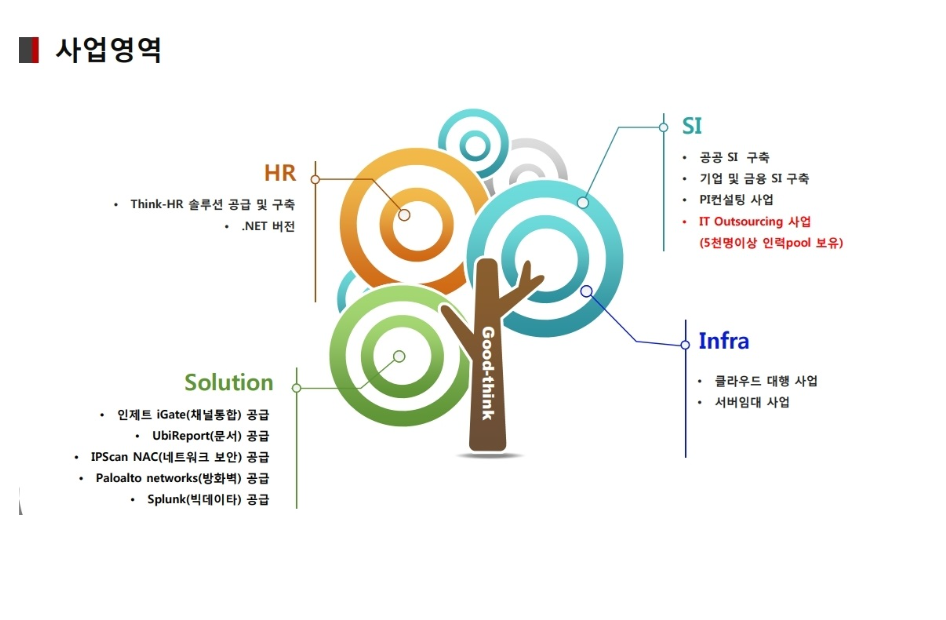
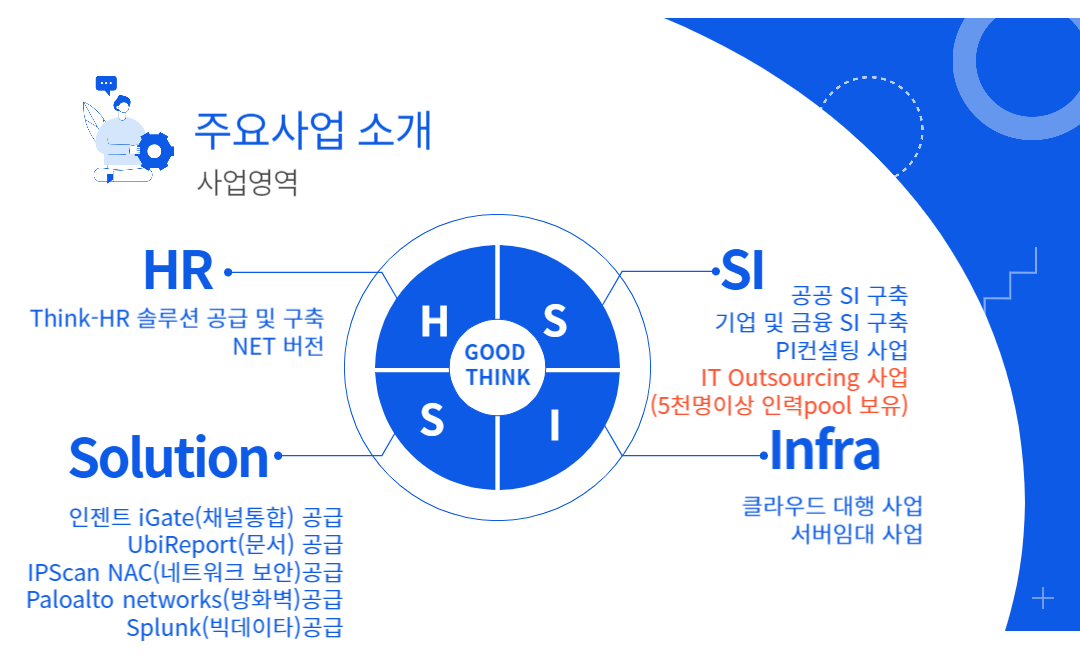
인사말,연혁,조직도,주요사업소개 작성

diff --git a/src/main/resources/templates/company/history.html b/src/main/resources/templates/company/history.html
@@ -66,80 +66,23 @@
     </div>
     <!-- Header End -->
 
-    <!-- About Start -->
+  <!-- About Start -->
     <div class="container-xxl py-5">
         <div class="container">
             <div class="row g-5">
-                <div class="col-lg-6 wow fadeInUp" data-wow-delay="0.1s" style="min-height: 400px;">
-                    <div class="position-relative h-100">
-                        <img class="img-fluid position-absolute w-100 h-100" src="/img/about.jpg" alt="" style="object-fit: cover;">
-                    </div>
-                </div>
-                <div class="col-lg-6 wow fadeInUp" data-wow-delay="0.3s">
-                    <h6 class="section-title bg-white text-start text-primary pe-3">연혁</h6>
-                  <h1 class="mb-4">미래,그 이상을 창조하는 기업. 굿씽크가 만들어가는 이상입니다.</h1>
-                    <p class="mb-4">
-						2021.<br>
-						비즈테크파트너스 협력업체 등록<br>
-					</p>
-                    <p class="mb-4">
-						2020.<br> 
-						경영혁신형 중소기업(Main-biz)등록<br>
-						동양네트웍스(주)전략업체 등록<br>
-						</p>
-                           <p class="mb-4">
-						2019.<br> 
-						본사확장이전(가양동)<br>
-						웨이텍 협력업체 업무협약<br>
-						위세아이텍 협력업체 등록<br>
-					</p>
-           	        <p class="mb-4">
-						2018.<br>
-						 SK(주)외주 파트너 업체 등록<br>
-						(주)TSIS 협력업체 등록<br>
-						(주)세아네트웍스 협력업체 등록<br>
-					</p>
-                    <p class="mb-4">
-						2017.<br> 
-						딜로이트 안전 파트너 계약체결<br>
-						뱅크웨어글러벌 파트너 계약체결<br>
-						대신정보통신(주) 파트너 계약체결<br>
-						PaIo Alto NetWorks(방화벽) 채널 계약체결<br>
-						스플렁크코리아 채널 계약체결<br>
-						인제튼 솔루션 채널 계약체결<br>
-						와이즈넛(검색엔진)파트너 계약체결<br>
-						스콥정보통신 솔루션 채널계약채결<br>
-						사무실 확장이전 (가산동 KCC웰츠밸리)
-					</p>
-                    <p class="mb-4">
-						2016.<br> 
-						자본금 증자(5천만원)<br>
-						LG하디찌 협력업체 등록<br>
-					</p>
-					<p class="mb-4">
-						2015.<br>
-						롯데정보통신 협력업체 등록<br>
-						아이앤티시스템 솔루션 파트너 채결<br>
-						미스터피자 HR 시스템구축<br>
-						휴먼컨설팅 그룹 협력업체 등록(HR 전문회사)<br>
-						엘에스웨어 협력업체 등록<br>
-						아이스프린트컨설팅 협력업체 등록(SAP 전문회사)<br>
-						사무실 이전(가산동 대성디폴리스)<br>
-						Think-HR v1.0 솔루션 출시(인사관리솔루션)
-					</p>
-                    <p class="mb-4">
-						2014.<br> 
-						아웃백코리아 협력업체 등록<br>
-						자생한방병원 협력업체 등록<br>
-						위세아이텍 협력업체 등록<br>
-						KCC정보통신 협력업체 등록<br>
-						UbiReport 파트너 채결(리포트 툴)<br>
-						셀파소프트파트너채결(DB성능관리솔루션)<br>
-						포스코ICT 협력업체 등록<br>
-						소프트포유 HR 및 SI사업부 인수<br>
-						굿씽크 법인 설립(마포구 상수동)
-					</p>
-                </div>
+<!--                <div class="col-lg-6 wow fadeInUp" data-wow-delay="0.1s" style="min-height: 400px;">-->
+<!--                    <div class="position-relative h-100">-->
+<!--                        <img class="img-fluid position-absolute w-100 h-100" src="/img/about.jpg" alt="" style="object-fit: cover;">-->
+<!--                    </div>-->
+<!--                </div>-->
+<!--                <div class="col-lg-6 wow fadeInUp" data-wow-delay="0.3s">-->
+                    <h6 class=" bg-white text-start text-primary pe-3">연혁</h6>
+<!--                  <h1 class="mb-4">미래,그 이상을 창조하는 기업.<br> 굿씽크가 만들어가는 이상입니다.</h1>-->
+                <div class="col-lg-12 wow fadeInUp" data-wow-delay="0.1s" style="min-height: 400px;">
+					 <img  src="/img/gdThink_history.png" alt="" style="width: 100%;">
+				</div>
+                   
+<!--                </div>-->
             </div>
         </div>
     </div>

diff --git a/src/main/resources/templates/company/greetings.html b/src/main/resources/templates/company/greetings.html
@@ -66,27 +66,23 @@
     </div>
     <!-- Header End -->
 
-    <!-- About Start -->
+   <!-- About Start -->
     <div class="container-xxl py-5">
         <div class="container">
             <div class="row g-5">
-                <div class="col-lg-6 wow fadeInUp" data-wow-delay="0.1s" style="min-height: 400px;">
-                    <div class="position-relative h-100">
-                        <img class="img-fluid position-absolute w-100 h-100" src="/img/about.jpg" alt="" style="object-fit: cover;">
-                    </div>
-                </div>
-                <div class="col-lg-6 wow fadeInUp" data-wow-delay="0.3s">
-                    <h6 class="section-title bg-white text-start text-primary pe-3">인사말</h6>
-                    <h1 class="mb-4">미래,그 이상을 창조하는 기업. 굿씽크가 만들어가는 이상입니다.</h1>
-                    <h5 class="section-title bg-white text-start text-primary pe-3">안녕하십니까? 저희(주)굿씽크에 관심을 가져주셔서 감사합니다.</h5>
-                    <p class="mb-4">(주)굿씽크는 HR시스템 전문 기업으로 제조 및 유통분야에서 다수의 성곡적인 프로젝트를 수행하였습니다</p>
-                    <p class="mb-4">주식회사굿씽크는 2005년 소프트포유로 설립을 하였고, 2014년 굿씽크로승계가 이루어진 HR시스템전문기업으로 제조 및 유통분야에서 다양한 프로젝트 경험을 바탕으로 해당분야의 축적된구척실적 경험을 보유하고 있습니다.</p>
-                    <p class="mb-4">당사는 THINK-HR솔루션을 통한 HR사업 UBIREPORT 툴 과 같은 솔루션 공급사업 IT아웃소싱을 통한 공공SI구축 사업을 주력으로 기업환경에 최적화된 IT시스템을 제공해왔습니다.</p>
-                    <p class="mb-4">또한 당사는 창업이래 끊임없는 기술개발과 고객사의 성공적인 시스템도입 및 운영을 돋기 위해 최선을 다하고 있으며, 이를 바탕으로 당수의 성공적인 프로젝트를 수행하여왔습니다.</p>
-                    <p class="mb-4">뜨거운 관심과 격려를 아끼지 않는 고객여러분께 깊이 감사 드리며, 우리의 창의와 노력으로 고객 여러분의 성원에 보답하고자 최고의 정보기술 구척업체가 될것을 약속드립니다.</p>
-                    <p class="mb-4">앞으로도 저의 (주)굿씽크에 지속적인 성원과 격겨를 부탁그립니다. 감사합니다</p>
+<!--                <div class="col-lg-6 wow fadeInUp" data-wow-delay="0.1s" style="min-height: 400px;">-->
+<!--                    <div class="position-relative h-100">-->
+<!--                        <img class="img-fluid position-absolute w-100 h-100" src="/img/about.jpg" alt="" style="object-fit: cover;">-->
+<!--                    </div>-->
+<!--                </div>-->
+<!--                <div class="col-lg-6 wow fadeInUp" data-wow-delay="0.3s">-->
+                    <h6 class=" bg-white text-start text-primary pe-3">인사말</h6>
+<!--                  <h1 class="mb-4">미래,그 이상을 창조하는 기업.<br> 굿씽크가 만들어가는 이상입니다.</h1>-->
+                <div class="col-lg-12 wow fadeInUp" data-wow-delay="0.1s" style="min-height: 400px;">
+					 <img  src="/img/CEO_messge.png" alt="" style="width: 100%;">
+				</div>
                    
-                </div>
+<!--                </div>-->
             </div>
         </div>
     </div>

diff --git a/src/main/resources/templates/business/business.html b/src/main/resources/templates/business/business.html
@@ -52,7 +52,7 @@
         <div class="container py-5">
             <div class="row justify-content-center">
                 <div class="col-lg-10 text-center">
-                    <h1 class="display-3 text-white animated slideInDown">조직도</h1>
+                    <h1 class="display-3 text-white animated slideInDown">주요사업소개</h1>
                     <nav aria-label="breadcrumb">
                         <ol class="breadcrumb justify-content-center">
                             <li class="breadcrumb-item"><a class="text-white" href="#">Home</a></li>
@@ -66,23 +66,23 @@
     </div>
     <!-- Header End -->
 
-    <!-- About Start -->
+   <!-- About Start -->
     <div class="container-xxl py-5">
         <div class="container">
             <div class="row g-5">
-                <div class="col-lg-6 wow fadeInUp" data-wow-delay="0.1s" style="min-height: 400px;">
-                    <div class="position-relative h-100">
-                        <img class="img-fluid position-absolute w-100 h-100" src="img/about.jpg" alt="" style="object-fit: cover;">
-                    </div>
-                </div>
-                <div class="col-lg-6 wow fadeInUp" data-wow-delay="0.3s">
-                    <h6 class="section-title bg-white text-start text-primary pe-3">주요사업소개</h6>
-                  <h1 class="mb-4">미래,그 이상을 창조하는 기업.<br> 굿씽크가 만들어가는 이상입니다.</h1>
-                <div class="mb-4">
-					 <img  src="img/business.png" alt="" >
+<!--                <div class="col-lg-6 wow fadeInUp" data-wow-delay="0.1s" style="min-height: 400px;">-->
+<!--                    <div class="position-relative h-100">-->
+<!--                        <img class="img-fluid position-absolute w-100 h-100" src="/img/about.jpg" alt="" style="object-fit: cover;">-->
+<!--                    </div>-->
+<!--                </div>-->
+<!--                <div class="col-lg-6 wow fadeInUp" data-wow-delay="0.3s">-->
+                    <h6 class=" bg-white text-start text-primary pe-3">주요사업소개</h6>
+<!--                  <h1 class="mb-4">미래,그 이상을 창조하는 기업.<br> 굿씽크가 만들어가는 이상입니다.</h1>-->
+                <div class="col-lg-12 wow fadeInUp" data-wow-delay="0.1s" style="min-height: 400px;">
+					 <img  src="/img/business.png" alt="" style="width: 100%;">
 				</div>
                    
-                </div>
+<!--                </div>-->
             </div>
         </div>
     </div>

diff --git a/src/main/resources/templates/company/diagram.html b/src/main/resources/templates/company/diagram.html
@@ -66,28 +66,27 @@
     </div>
     <!-- Header End -->
 
-    <!-- About Start -->
+  <!-- About Start -->
     <div class="container-xxl py-5">
         <div class="container">
             <div class="row g-5">
-                <div class="col-lg-6 wow fadeInUp" data-wow-delay="0.1s" style="min-height: 400px;">
-                    <div class="position-relative h-100">
-                        <img class="img-fluid position-absolute w-100 h-100" src="/img/about.jpg" alt="" style="object-fit: cover;">
-                    </div>
-                </div>
-                <div class="col-lg-6 wow fadeInUp" data-wow-delay="0.3s">
-                    <h6 class="section-title bg-white text-start text-primary pe-3">조직도</h6>
-                  <h1 class="mb-4">미래,그 이상을 창조하는 기업. 굿씽크가 만들어가는 이상입니다.</h1>
-                <div class="mb-4">
-					 <img  src="/img/diagram.png" alt="" >
+<!--                <div class="col-lg-6 wow fadeInUp" data-wow-delay="0.1s" style="min-height: 400px;">-->
+<!--                    <div class="position-relative h-100">-->
+<!--                        <img class="img-fluid position-absolute w-100 h-100" src="/img/about.jpg" alt="" style="object-fit: cover;">-->
+<!--                    </div>-->
+<!--                </div>-->
+<!--                <div class="col-lg-6 wow fadeInUp" data-wow-delay="0.3s">-->
+                    <h6 class=" bg-white text-start text-primary pe-3">조직도</h6>
+<!--                  <h1 class="mb-4">미래,그 이상을 창조하는 기업.<br> 굿씽크가 만들어가는 이상입니다.</h1>-->
+                 <div class="col-lg-12 wow fadeInUp" data-wow-delay="0.1s" style="min-height: 400px;">
+					 <img  src="/img/diagram.png" alt="" style="width: 100%;">
 				</div>
                    
-                </div>
+<!--                </div>-->
             </div>
         </div>
     </div>
     <!-- About End -->
-
 
     <!-- Footer Start -->
     
